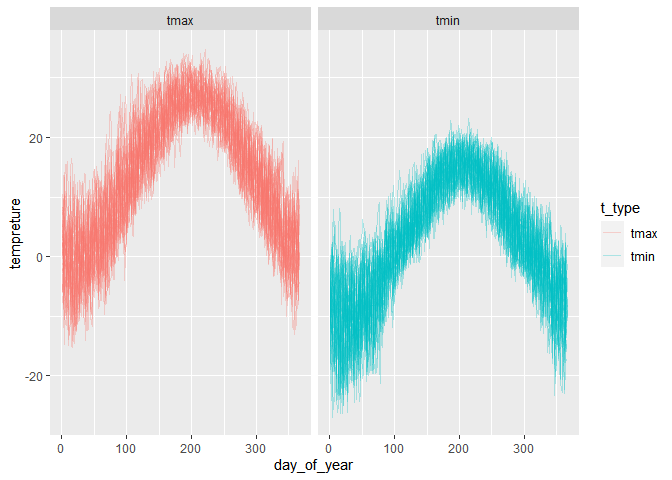
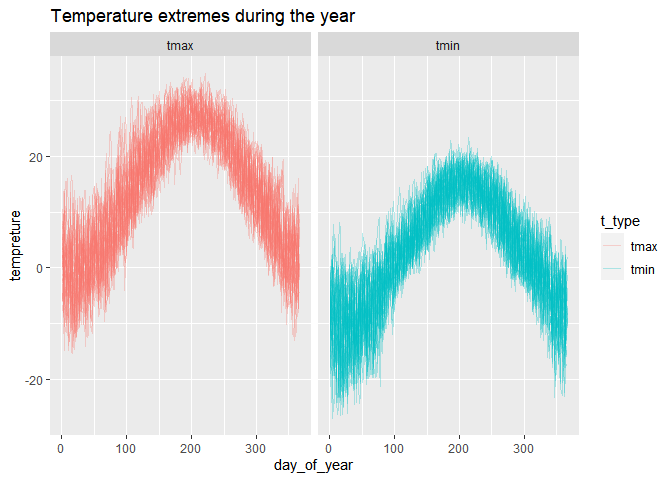
correcting typos and final update

diff --git a/p8105_hw3_zj237.md b/p8105_hw3_zj237.md
@@ -3,7 +3,7 @@ p8105_hw3_zj2357
 Zekai Jin (zj2357)
 2022-10-10
 
-First of all, we should include the libraries we are using.
+First of all, we should include the libraries we are using.  
 
 ``` r
 library(tidyverse)
@@ -15,7 +15,7 @@ knitr::opts_chunk$set(message  = FALSE,
                       warning = FALSE)
 ```
 
-# Problem 1
+# Problem 1 
 
 ``` r
 data("instacart")
@@ -35,12 +35,12 @@ head(instacart,5)
     ## #   abbreviated variable names ¹add_to_cart_order, ²reordered, ³eval_set,
     ## #   ⁴order_number, ⁵order_dow, ⁶order_hour_of_day
 
-This dataset consists of 1384617 records, each redord represent an item
+This dataset consists of 1384617 records, each record represent an item
 purchased by a user within an order. `order_id` shows that there are
 131209 different orders. the other variables shows the time of the
-order, the name of the item and their catagories.
+order, the name of the item and their categories.  
 
-To analyze the aisles, use the following code
+To analyze the aisles, use the following code  
 
 ``` r
 aisle_group = 
@@ -51,8 +51,8 @@ aisle_group =
 ```
 
 Thus, there are 134 different aisles. The most popular aisle is fresh
-vegetables. Then, we make a plot of aisles with more than 10000 items
-ordered.
+vegetables.  
+Then, we make a plot of aisles with more than 10000 items ordered.  
 
 ``` r
 aisle_group %>%
@@ -70,8 +70,9 @@ aisle_group %>%
 ![](p8105_hw3_zj237_files/figure-gfm/unnamed-chunk-3-1.png)<!-- --> One
 concern for this analysis is that there would be more than 1 of each
 items within an order. However, the amount of items within an order is
-not given. To make a table showing the three most popular items in these
-isles, we have
+not given.  
+To make a table showing the three most popular items in these isles, we
+have  
 
 ``` r
 instacart %>%
@@ -104,8 +105,8 @@ instacart %>%
     ## 8 packaged vegetables fruits Organic Raspberries                      5546     2
     ## 9 packaged vegetables fruits Organic Blueberries                      4966     3
 
-And to make a table showing the mean hour of the day, use the folliwing
-code:
+And to make a table showing the mean hour of the day, use the following
+code: 
 
 ``` r
 instacart %>%
@@ -131,9 +132,9 @@ instacart %>%
     ## 1 Coffee Ice Cream    13.8    14.3    15.4    15.3    15.2    12.3    13.8
     ## 2 Pink Lady Apples    13.4    11.4    11.7    14.2    11.6    12.8    11.9
 
-# Problem 2
+# Problem 2 
 
-First, we should tidy the dataset:
+First, we should tidy the dataset:  
 
 ``` r
 rm(list = ls())
@@ -163,12 +164,13 @@ head(accel_df,5)
     ## 4      1     1 Friday FALSE         4     70.0
     ## 5      1     1 Friday FALSE         5     75.0
 
-Thus, the reasulting dataframe `accel_df` consists of $5*7*24*60=50400$
-records. Each record contains activity of the male during a minute’s
-period of time, stored in variable `activity`. Other varibles in the
-record shows information for the one-minute time period. The following
-code creates a tgable for the total activity for each day, and made a
-plot.
+Thus, the resulting dataframe `accel_df` consists of
+$5\times7\times24\times60=50400$ records. Each record contains activity
+of the male during a minute’s period of time, stored in variable
+`activity`. Other variables in the record shows information for the
+one-minute time period.  
+The following code creates a table for the total activity for each day,
+and made a plot.  
 
 ``` r
 accel_df %>%
@@ -202,9 +204,9 @@ accel_df %>%
 
 ![](p8105_hw3_zj237_files/figure-gfm/unnamed-chunk-7-1.png)<!-- -->
 Thus, no apparant trends can be seen under this analysis, except for
-some days having almost zero activity. However, it is notable that the
-`day_id` does not represent days after study begins. To solve this
-problem, use the following code
+some days having almost zero activity.  
+However, it is notable that the `day_id` does not represent days after
+study begins. To solve this problem, use the following code  
 
 ``` r
 accel_df %>%
@@ -224,13 +226,13 @@ accel_df %>%
 ![](p8105_hw3_zj237_files/figure-gfm/unnamed-chunk-8-1.png)<!-- --> From
 the figure, the activity is more stable from Tuesday to Friday, and have
 more variance on Sunday and Mondays. The activity on Saturday is not
-reliable due to missing data for two days. However, it is likely that
-missing data is encoded as 1, thus the `total_activity` here should be
-lower than the true value. This could be solved by encoding 1 as `NA`
-and analyze based on `mean(activity)`.
+reliable due to missing data for two days.  
+However, it is likely that missing data is encoded as 1, thus the
+`total_activity` here should be lower than the true value. This could be
+solved by encoding 1 as `NA` and analyze based on `mean(activity)`.  
 
 to make a single-panel plot that shows the 24-hour activity time courses
-for each day, use the following code:
+for each day, use the following code:  
 
 ``` r
 accel_df %>%
@@ -247,13 +249,16 @@ accel_df %>%
 ![](p8105_hw3_zj237_files/figure-gfm/unnamed-chunk-9-1.png)<!-- --> This
 plot shows that the males tends to exercise in the morning between 5-11
 a.m. and in the evening between 18-22 p.m. He seldom move during
-midnight, and reduced activity at noon. Meanwhile, his exercise on each
-day across week showed similar pattern. For example, in 4 out of 5
-weeks, the man exercised in the evening on Friday (purple lines).
+midnight, and reduced activity at noon.  
+Meanwhile, his exercise on each day across week showed similar pattern.
+For example, in 4 out of 5 weeks, the man exercised in the evening on
+Friday (purple lines).  
+Notably, there are negative values in the smoothed lines. However, it
+does not mean that activity can take negative values.  
 
 # Problem 3
 
-First of all, clean the data using the following code:
+First of all, clean the data using the following code:  
 
 ``` r
 rm(list = ls())
@@ -275,9 +280,9 @@ ny_noaa = ny_noaa %>%
 The dataframe consists of 2595176 records from 747 weather stations,
 lasting from \`1981-01-01 to 2010-12-31. For each record, there are
 information for the Precipitation, Snowfall, Snow depth(mm) and
-Maximum/minimum Temperature$(^oC)$ information.
+Maximum/minimum Temperature$(^oC)$ information.  
 
-We can count the frequency based on the following code:
+We can count the frequency based on the following code:  
 
 ``` r
 ny_noaa %>%
@@ -295,11 +300,11 @@ ny_noaa %>%
     ## 3    25   31022
 
 Because most days don’t snow, the most frequent value is 0, indicating
-no snows.
+no snows.  
 
 The code below makes a two-panel plot showing the average max
 temperature in January and in July. Each line represents a record from a
-different station.
+different station.  
 
 ``` r
 ny_noaa %>%
@@ -322,12 +327,12 @@ Meanwhile, the average maximum temperature from different stations tend
 to increase or drop together. During cold months, the record of all
 stations decreases to a similar extent, forming parallel lines in the
 figure. However, there are some notable outliers not following this
-pattern, such as the dip in July, 1988.
+pattern, such as the dip in July, 1988.  
 
 The code to make the two panel plot and the result is shown below.
 Considering the computational efficiency and differences across
 stations, take the average temperature between stations will have a
-better plot.
+better plot.  
 
 ``` r
 ny_noaa %>%
@@ -342,7 +347,8 @@ ny_noaa %>%
                names_prefix = "ave_") %>%
   ggplot(aes(x = day_of_year, y = tempreture , group = year, color = t_type)) +
   geom_line(alpha = 0.3) +
-  facet_grid(~t_type)
+  facet_grid(~t_type) +
+  labs(title = "Temperature extremes during the year")
 ```
 
 ![](p8105_hw3_zj237_files/figure-gfm/unnamed-chunk-13-1.png)<!-- -->
@@ -353,7 +359,11 @@ ny_noaa %>%
   mutate(year = as.factor(year)) %>%
   ggplot(aes(x = snow, y = year, fill = year)) +
   geom_density_ridges(scale = 1.5, alpha = 0.5, color = "#0000005F") +
-  scale_x_continuous(limit = c(0, 100))
+  scale_x_continuous(limit = c(0, 100)) +
+  labs(
+    title = "snowfall distribution across years",
+    x = "snowfall (mm)"
+  )
 ```
 
 ![](p8105_hw3_zj237_files/figure-gfm/unnamed-chunk-14-1.png)<!-- -->
